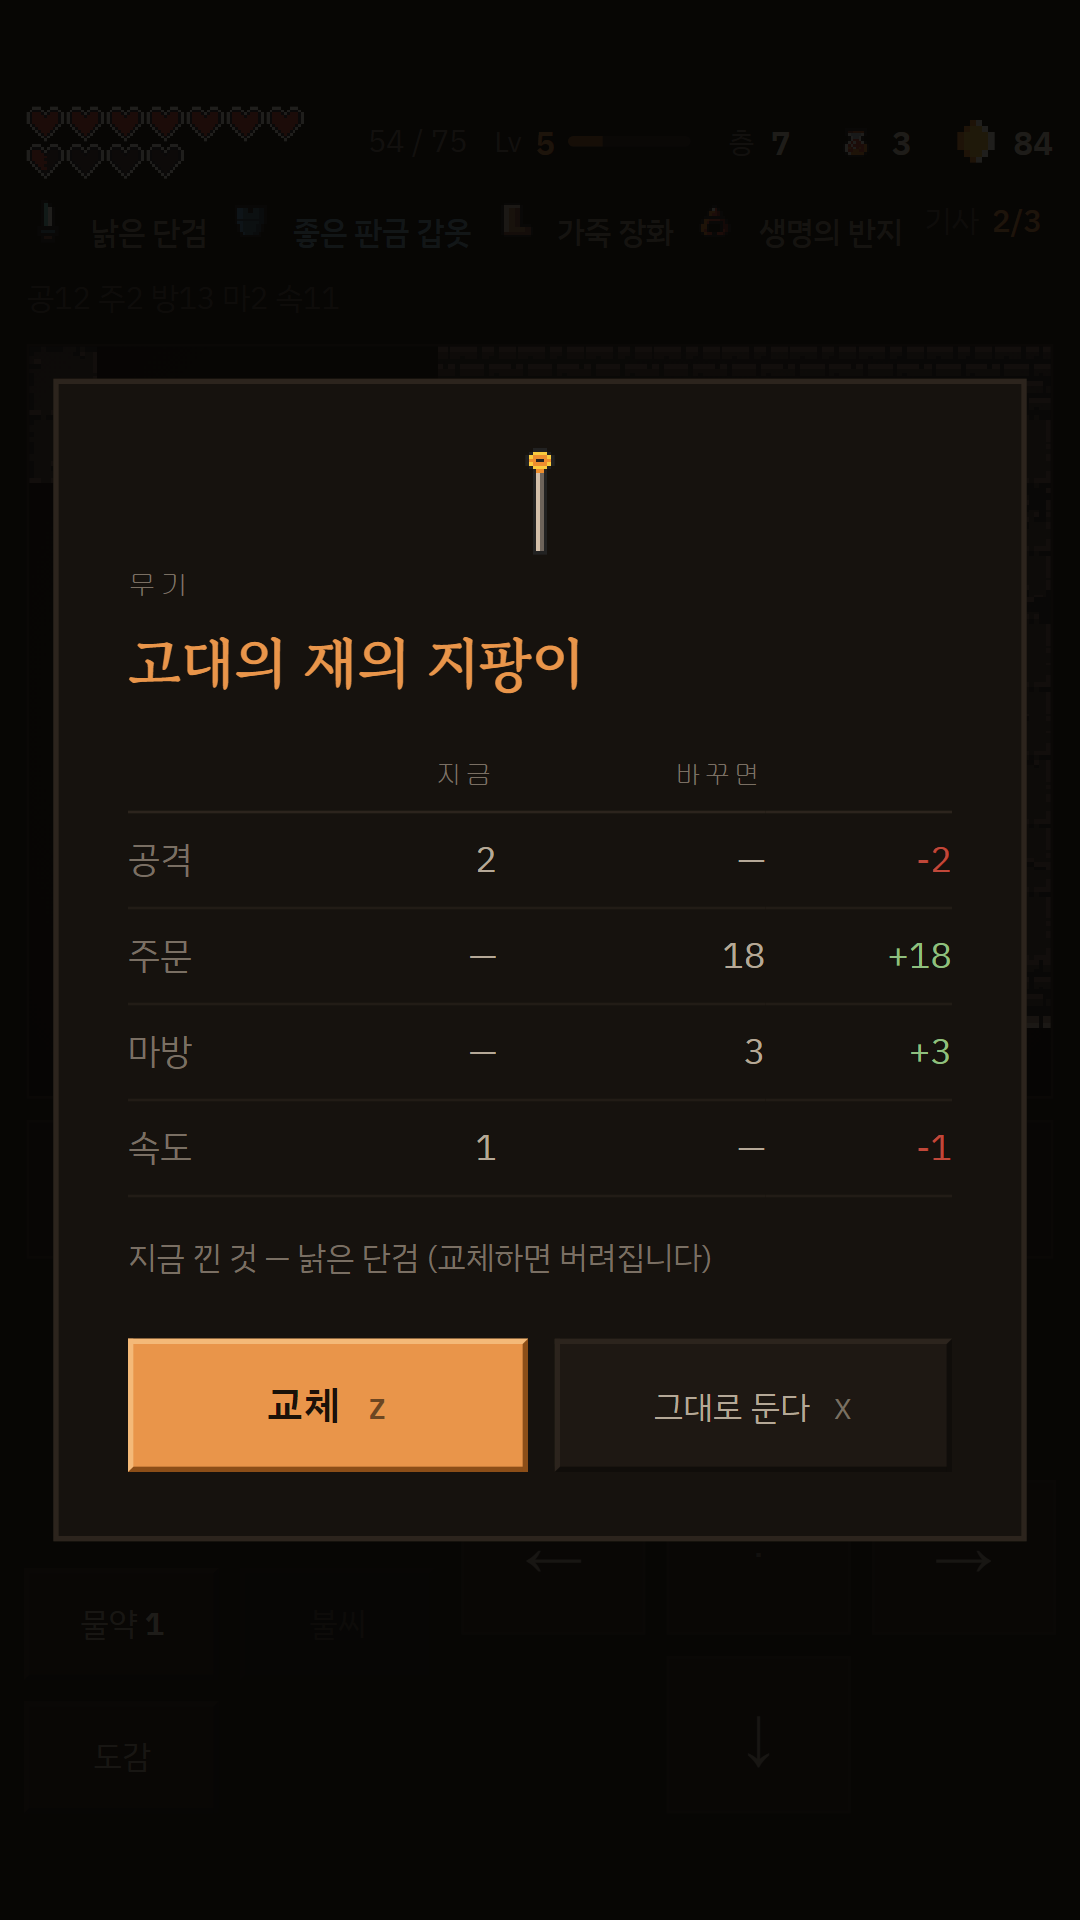
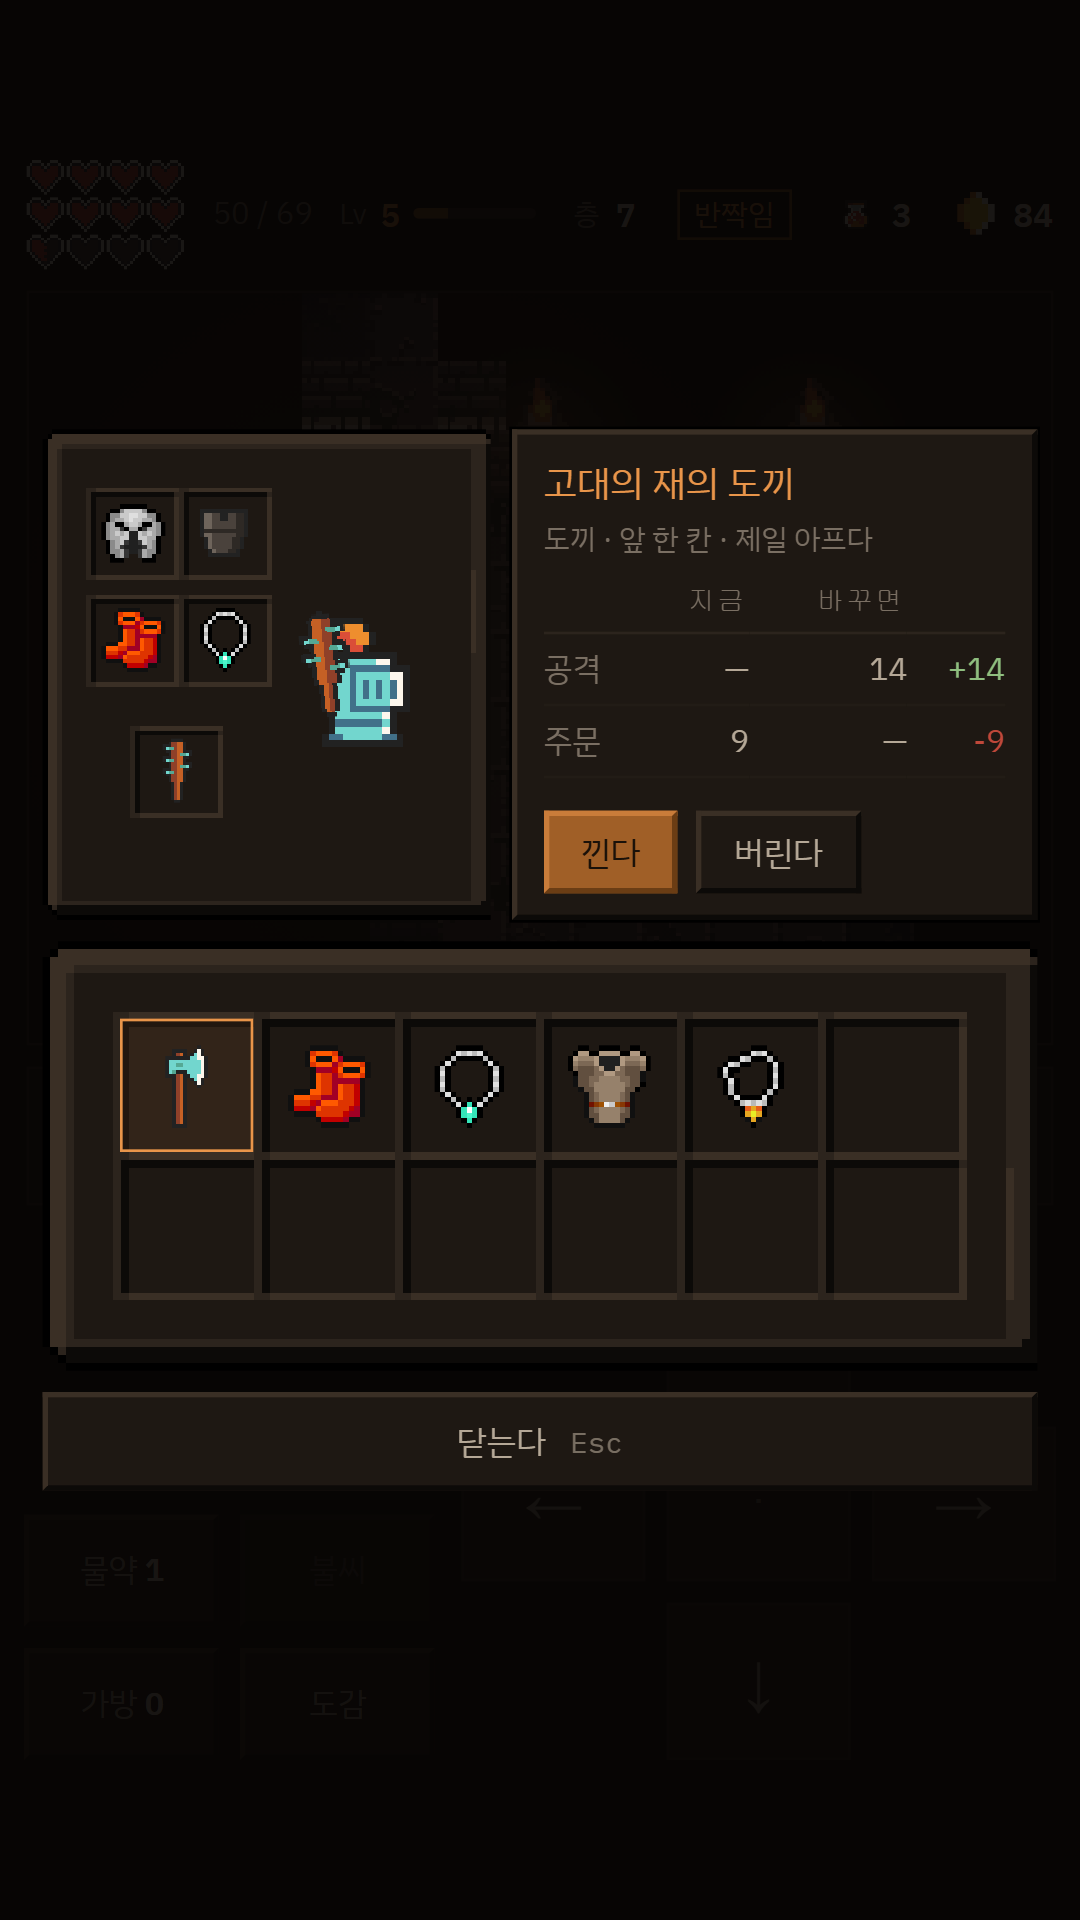
가방 설명칸의 버튼을 바닥에 붙박이로 둔다
스토어 스크린샷을 다시 찍다가 나왔다. 줄 높이를 장착판에 묶어 두었는데,
값이 세 줄인 물건(고대의 지팡이 — 공격·주문·마방)이 오면 「낀다/버린다」가
아래로 밀려 잘렸다. 스크롤해야 나오는 버튼은 없는 버튼과 같다.

값만 구르게 하고 버튼은 붙박이로 뒀다. 세 줄·두 줄 물건을 405px 과 320px
에서 재 보니 버튼이 전부 상자 안에 남는다.

make-store-shots.js 는 아직 없어진 UI.showGearCompare 를 부르고 있었다.
그 장면을 가방으로 바꿨다 — 어차피 가방 쪽이 스토어에서 할 말이 더 많다.
「주운 것을 들고 다닐 수 있다」가 한 장에 드러난다.

diff --git a/dist/jaetbul.html b/dist/jaetbul.html
@@ -847,8 +847,13 @@ canvas#view {
 .bag-detail-in {
   position: absolute; inset: 0;
   padding: 9px 11px;
-  overflow-y: auto;
+  display: flex; flex-direction: column;
+  overflow: hidden;
 }
+/* 값만 구른다. min-height:0 이 없으면 flex 자식이 안 줄어들어
+   구르는 대신 밖으로 밀어낸다 — 그러면 버튼이 다시 잘린다. */
+.bag-rows { flex: 1 1 auto; min-height: 0; overflow-y: auto; }
+.bag-detail-in .bag-acts { flex: 0 0 auto; }
 .bag-detail-in .hint { font-size: 12px; color: var(--muted); }
 /* 가방을 열었을 때의 첫 화면 — 예전 장비 줄이 하던 일 */
 .bag-sum-nums {
@@ -7291,9 +7296,13 @@ const UI = {
       acts.push('<button data-act="unequip" class="ghost">벗는다</button>');
     }
 
+    /* 값은 구르게 하고 **버튼은 바닥에 붙박이**로 둔다.
+       줄이 세 개만 돼도 끼는 버튼이 아래로 밀려 안 보였다 —
+       스크롤해야 나오는 버튼은 없는 버튼과 같다. */
     box.innerHTML =
       `<div class="bag-name r-${g.rarity}">${gearFullName(g)}</div>` +
-      `<div class="bag-slotline">${slotLine}</div>` + rows +
+      `<div class="bag-slotline">${slotLine}</div>` +
+      `<div class="bag-rows">${rows}</div>` +
       `<div class="bag-acts">${acts.join('')}</div>`;
 
     box.querySelectorAll('[data-act]').forEach(btn => {

diff --git a/tools/make-store-shots.js b/tools/make-store-shots.js
@@ -238,11 +238,22 @@ const stage = (depth, opts) => `(() => {
       if (up >= 5 && score > bestScore) { bestScore = score; best = g; }
     }
     if (!best) best = makeGear(GEAR.find(d => d.rarity === 'ancient' && d.slot === 'weapon' && !d.only));
-    UI.showGearCompare(best, p.gear[equipSlotFor(best, p)]);
+
+    /* 가방을 열고 그 물건을 골라 둔다. 예전에는 비교창을 띄우는 자리였는데
+       그 창은 없어졌다 — 지금은 가방의 설명 칸이 같은 일을 한다.
+       가방을 보여주는 편이 낫기도 하다 — 「주운 것을 들고 다닐 수 있다」가
+       한 장에 드러난다. */
+    state.bag = [best];
+    for (const n of ['재의 장화', '수정 목걸이', '사슬 갑옷', '부적']) {
+      const d = GEAR.find(g => g.name === n);
+      if (d && state.bag.length < 6) state.bag.push(makeGear(d));
+    }
+    openBag();
+    document.querySelector('#bag-slots [data-bag="0"]').click();
   });
   await page.waitForTimeout(500);
   await shot('04-gear');
-  await page.evaluate(() => { if (UI.hideGearCompare) UI.hideGearCompare(); });
+  await page.evaluate(() => { UI.hideBag(); });
   await page.waitForTimeout(300);
 
   /* ---------- 5. 상점 ----------

diff --git a/js/ui.js b/js/ui.js
@@ -585,9 +585,13 @@ const UI = {
       acts.push('<button data-act="unequip" class="ghost">벗는다</button>');
     }
 
+    /* 값은 구르게 하고 **버튼은 바닥에 붙박이**로 둔다.
+       줄이 세 개만 돼도 끼는 버튼이 아래로 밀려 안 보였다 —
+       스크롤해야 나오는 버튼은 없는 버튼과 같다. */
     box.innerHTML =
       `<div class="bag-name r-${g.rarity}">${gearFullName(g)}</div>` +
-      `<div class="bag-slotline">${slotLine}</div>` + rows +
+      `<div class="bag-slotline">${slotLine}</div>` +
+      `<div class="bag-rows">${rows}</div>` +
       `<div class="bag-acts">${acts.join('')}</div>`;
 
     box.querySelectorAll('[data-act]').forEach(btn => {

diff --git a/style.css b/style.css
@@ -841,8 +841,13 @@ canvas#view {
 .bag-detail-in {
   position: absolute; inset: 0;
   padding: 9px 11px;
-  overflow-y: auto;
+  display: flex; flex-direction: column;
+  overflow: hidden;
 }
+/* 값만 구른다. min-height:0 이 없으면 flex 자식이 안 줄어들어
+   구르는 대신 밖으로 밀어낸다 — 그러면 버튼이 다시 잘린다. */
+.bag-rows { flex: 1 1 auto; min-height: 0; overflow-y: auto; }
+.bag-detail-in .bag-acts { flex: 0 0 auto; }
 .bag-detail-in .hint { font-size: 12px; color: var(--muted); }
 /* 가방을 열었을 때의 첫 화면 — 예전 장비 줄이 하던 일 */
 .bag-sum-nums {
